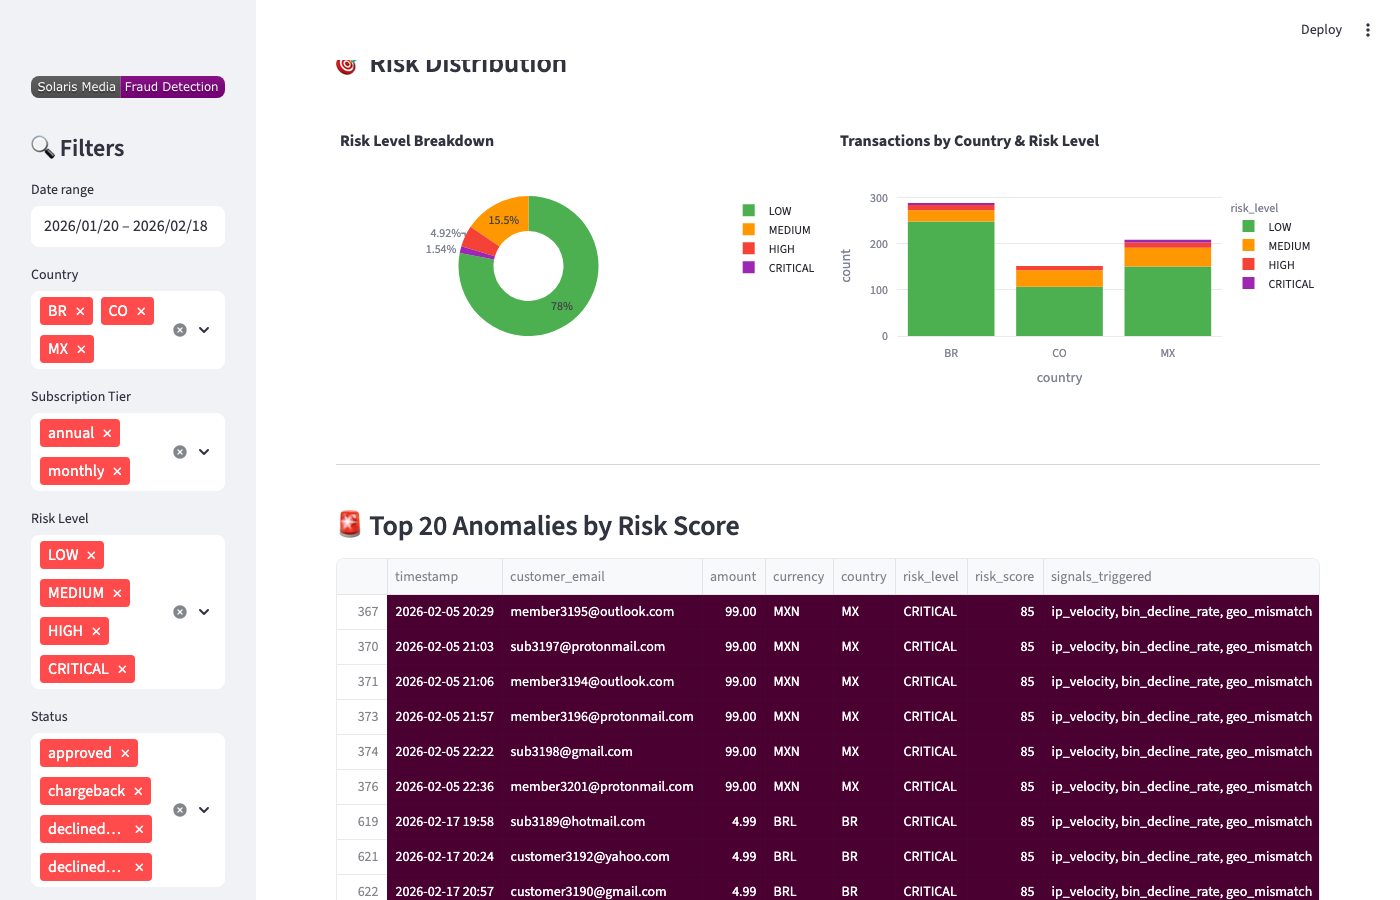
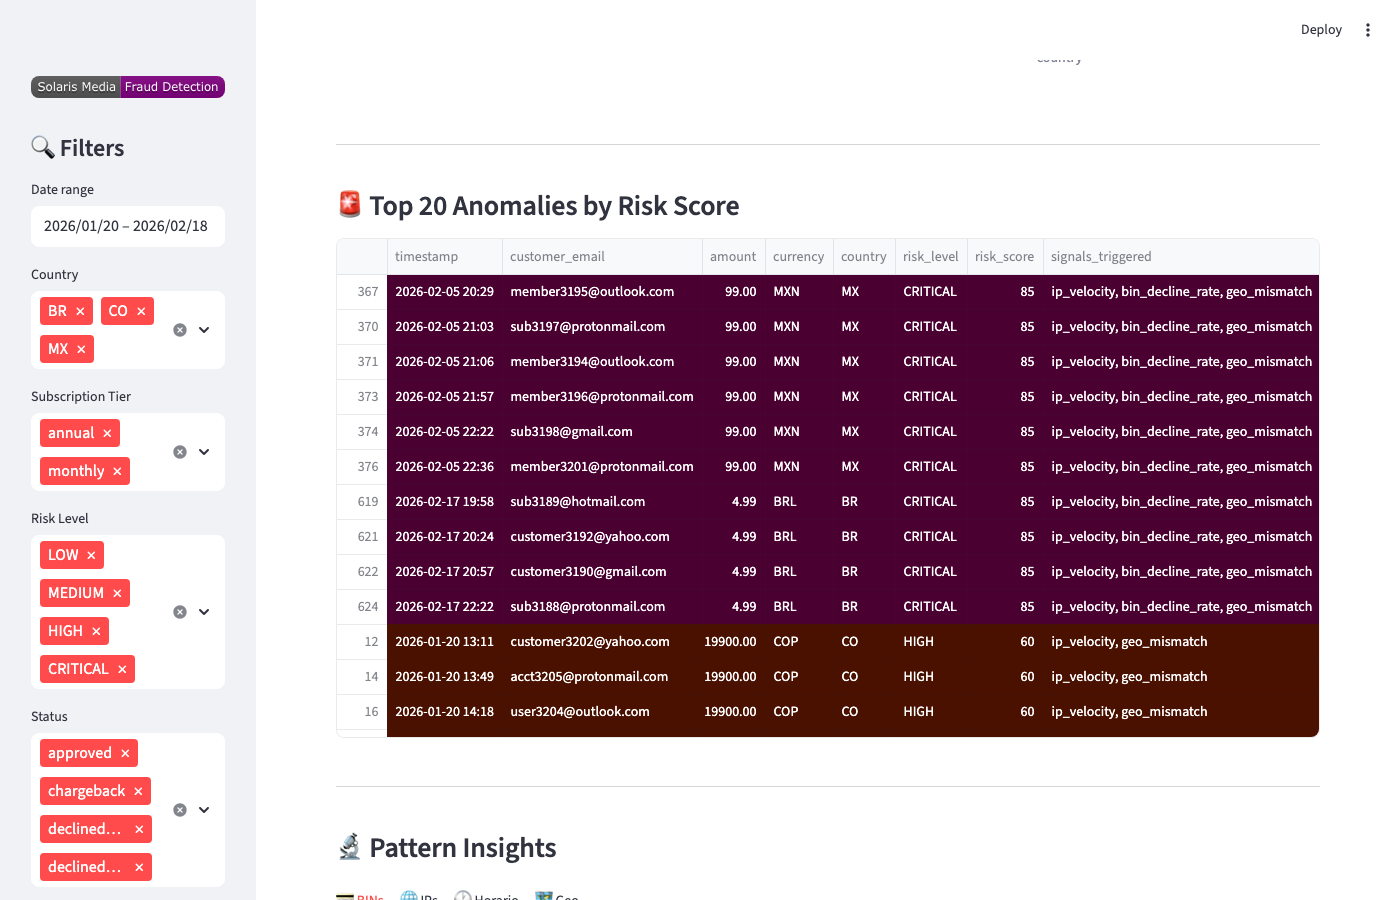
🖼 Update screenshots: anomalies + IPs card testing

diff --git a/screenshots/capture.py b/screenshots/capture.py
@@ -33,11 +33,6 @@ def set_scroll(page: Page, px: int, wait: int = 1000):
     page.wait_for_timeout(wait)
 
 
-def click_tab(page: Page, label: str, wait: int = 1800):
-    page.locator(f'button[role="tab"]:has-text("{label}")').first.click()
-    page.wait_for_timeout(wait)
-
-
 def click_tab(page: Page, label: str, wait: int = 1500):
     page.locator(f'button[role="tab"]:has-text("{label}")').first.click()
     page.wait_for_timeout(wait)
@@ -79,7 +74,10 @@ def run():
         save(page, "03_risk_distribution")
 
         # ── 04: Top 20 Anomalies (CRITICAL rows highlighted) ───────────────────
-        set_scroll(page, 960, wait=1000)
+        # Scroll to 1280 in two steps: prime the dataframe render first,
+        # then settle at final position with a long wait for layout stabilization.
+        set_scroll(page, 900, wait=1500)
+        set_scroll(page, 1280, wait=3000)
         save(page, "04_top_anomalies_critical_highlighted")
 
         # ── 05: Pattern Insights → BINs tab ───────────────────────────────────
